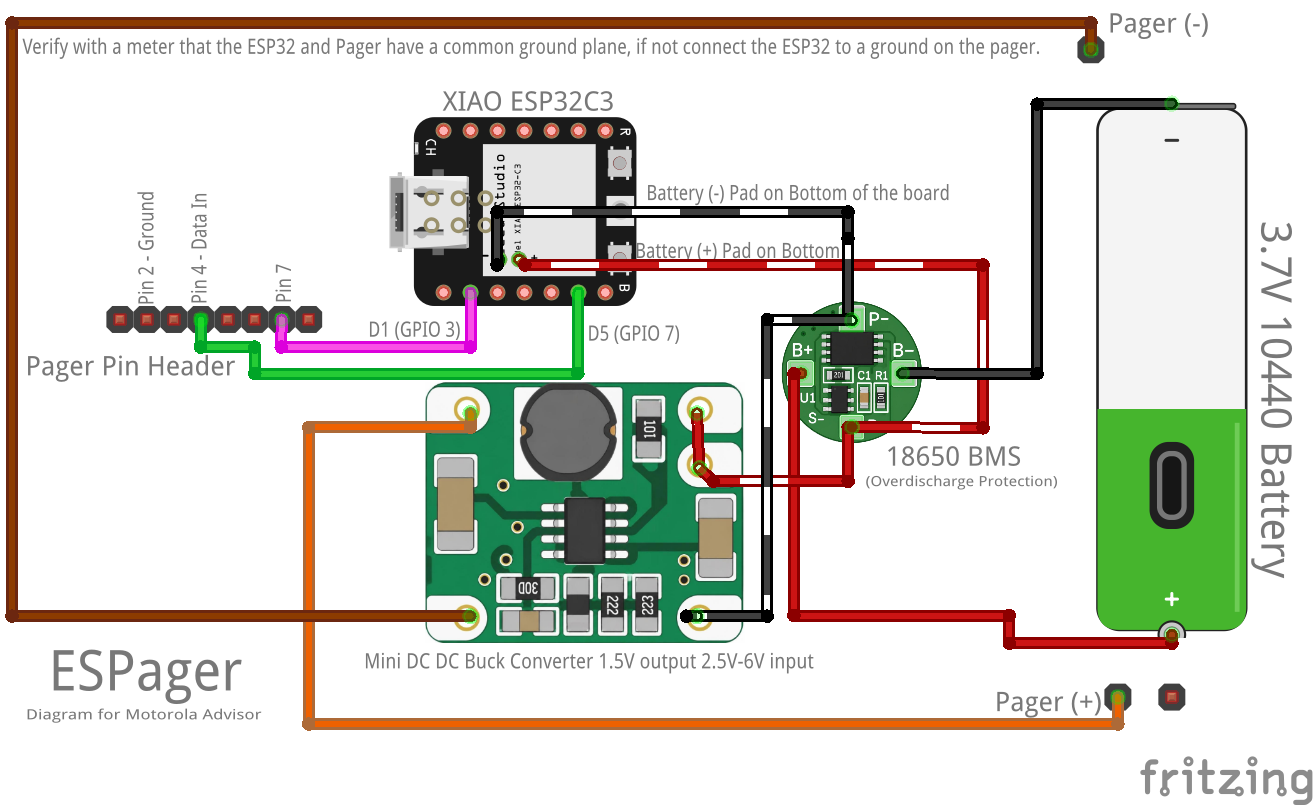
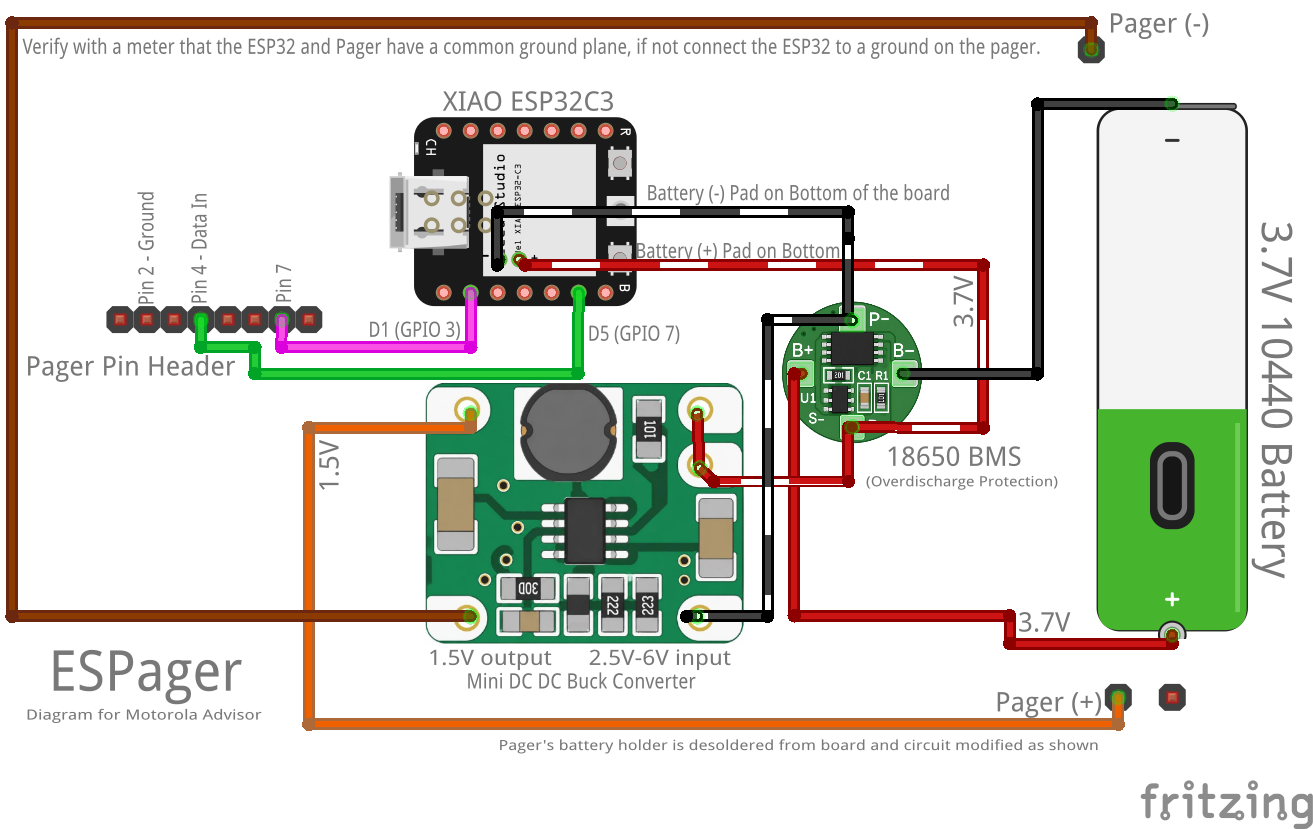
Update README to include alternative hardware

diff --git a/README.md b/README.md
@@ -57,11 +57,11 @@ Licensed: GPL v3.0
 # BOM  
 
 ** Note: Most of these items can only be found on AliExpress or through similar vendors  
-* Pager that supports POCSAG or GSC (1st Generation Motorola Advisor)  
-* ESP32 C3 (Generic ESP32-C3 SuperMini or XIAO ESP32C3)  
-* 3.7V 10440 Battery (Button-Top 3.7v Vapcell F4 450mAh or Generic USB C Rechargeable 3.7v 10440 750mWh 200mAh, maybe a 601230?)  
-* x1 mini DC-DC Buck Converter (1.5v output voltage with 2.5v-6.0v input voltage)  
-* x1 3.7v 1S 2.5A li-ion BMS Protection Module with Overdischarge protection (Round type that goes on end of 18650 is smallest I found)  
+* 1st Generation Motorola Advisor (or Pager that supports POCSAG or GSC)  
+* XIAO ESP32 C3 with built in battery charging (or Generic ESP32-C3 SuperMini)  
+* 10440 Button-Top 3.7v Vapcell F4 450mAh (or Generic USB C Rechargeable 3.7v 10440 750mWh 200mAh, maybe a 601230?)  
+* Tiny Out 1A LDO 1.8V (or mini DC-DC Buck Converter 1.5v output voltage with 2.5v-6.0v input voltage)  
+* 3.7v 1S 2.5A li-ion BMS Protection Module with Overdischarge protection (Round type that goes on end of 18650 is smallest I found)  
 * Assorted Color Wire (I used solid core 22awg)  
 * Wiring harness tape(Tesa cloth fabric tape)  
 
@@ -109,6 +109,10 @@ An ESP32 C3 running the code contained within this repo is installed inside a Mo
   <img src="images/pocsag3.png" width="100" alt="Full-size image">
 </a>
 
+<a href="images/pocsag4.png">
+  <img src="images/pocsag4.png" width="100" alt="Full-size image">
+</a>
+
 <br>
 
 <a href="images/gsc1.png">
@@ -121,6 +125,10 @@ An ESP32 C3 running the code contained within this repo is installed inside a Mo
 
 <a href="images/gsc3.png">
   <img src="images/gsc3.png" width="100" alt="Full-size image">
+</a>
+
+<a href="images/gsc4.png">
+  <img src="images/gsc4.png" width="100" alt="Full-size image">
 </a>
 
 --------------------
@@ -181,12 +189,16 @@ An ESP32 C3 running the code contained within this repo is installed inside a Mo
 * Tape off the inside of the pager to prevent shorts, tape of the bms, buck converter, and ESP32-C3.  
 * Assembly is reverse of disassembly.  
 
-<a href="images/ESPager_wiring.png">
-  <img src="images/ESPager_wiring.png" width="400" alt="Full-size image">
+<a href="images/ESPager_wiring_XIAO_tinyout1a.png">
+  <img src="images/ESPager_wiring_XIAO_tinyout1a.png" width="250" alt="Full-size image">
 </a>
 
 <a href="images/ESPager_wiring_XIAO.png">
-  <img src="images/ESPager_wiring_XIAO.png" width="400" alt="Full-size image">
+  <img src="images/ESPager_wiring_XIAO.png" width="250" alt="Full-size image">
+</a>
+
+<a href="images/ESPager_wiring.png">
+  <img src="images/ESPager_wiring.png" width="250" alt="Full-size image">
 </a>
 
 <br>
@@ -229,6 +241,16 @@ An ESP32 C3 running the code contained within this repo is installed inside a Mo
 
 <a href="images/motorola_advisor_battery_tray_complete.jpg">
   <img src="images/motorola_advisor_battery_tray_complete.jpg" width="100" alt="Full-size image">
+</a>
+
+<br>
+
+<a href="images/ESPAGER_XIAO_1.jpg">
+  <img src="images/ESPAGER_XIAO_1.jpg" width="100" alt="Full-size image">
+</a>
+
+<a href="images/ESPAGER_XIAO_2.jpg">
+  <img src="images/ESPAGER_XIAO_2.jpg" width="100" alt="Full-size image">
 </a>
 
 --------------------
